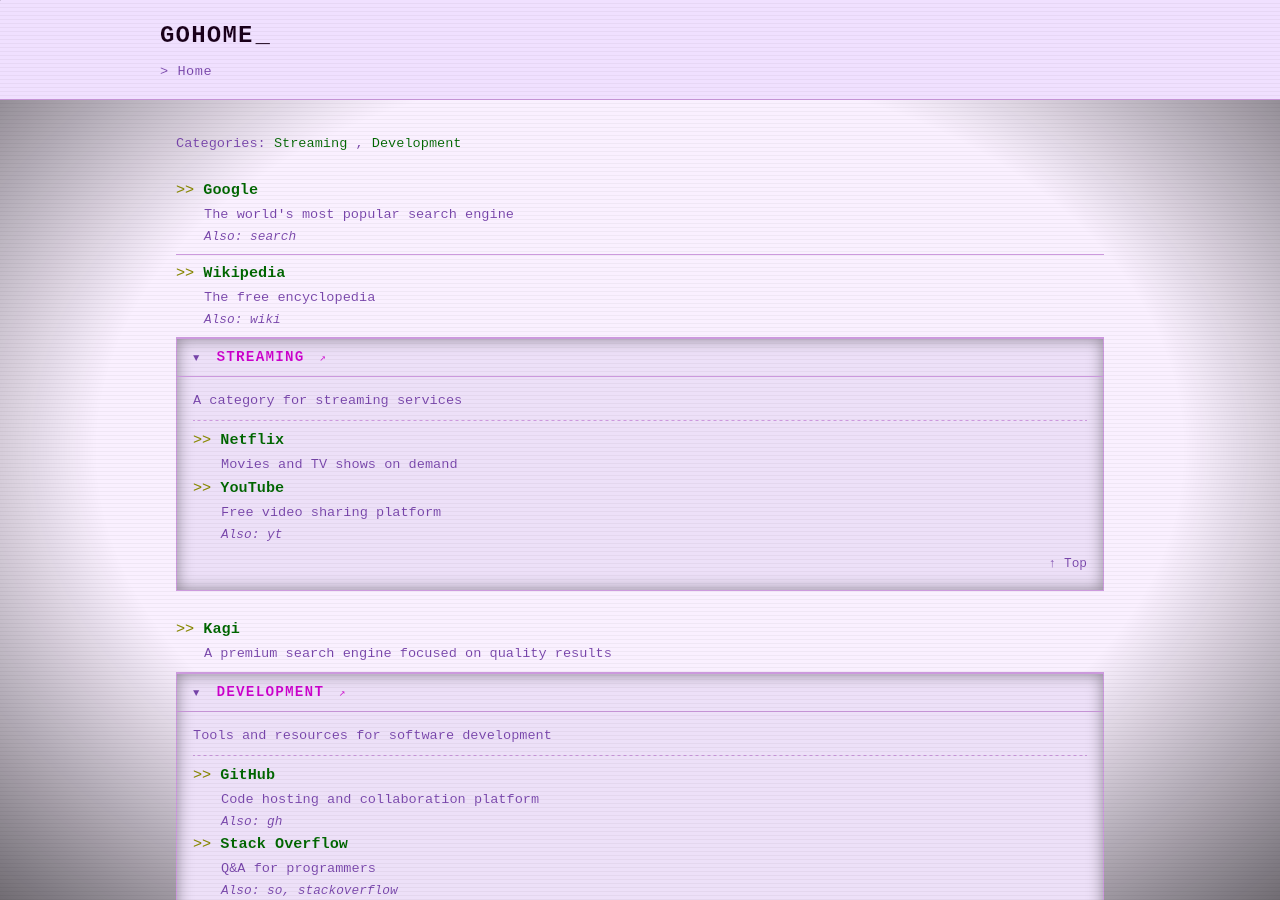
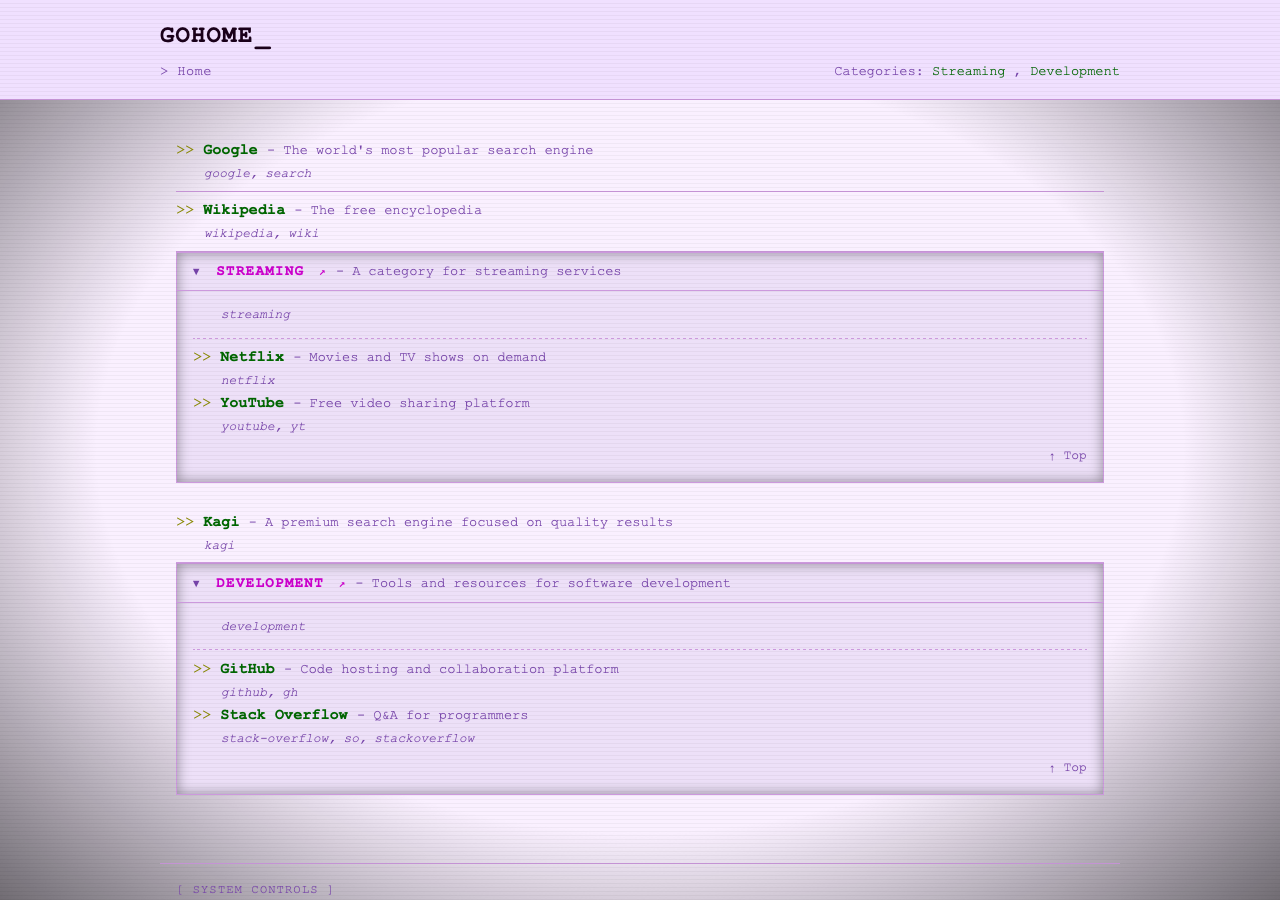
Update README alias docs and regenerate screenshots
- Update alias display descriptions to reflect inline slug labels
- Regenerate all 8 theme screenshots with current UI
- Fix screenshot script: use threaded server to avoid Webkit
  keep-alive blocking

diff --git a/scripts/generate_screenshots.py b/scripts/generate_screenshots.py
@@ -106,7 +106,7 @@ def start_server(config_dir: str, port: int) -> tuple[threading.Thread, BaseWSGI
     from gohome import create_app  # type: ignore[import-untyped]
 
     app = create_app(config_dir)
-    server: BaseWSGIServer = make_server("127.0.0.1", port, app)
+    server: BaseWSGIServer = make_server("127.0.0.1", port, app, threaded=True)
 
     thread = threading.Thread(target=server.serve_forever, daemon=True)
     thread.start()

diff --git a/README.md b/README.md
@@ -201,8 +201,8 @@ links together. The `description` and `aliases` fields are optional.
 
 Use `aliases` to create shorthand URLs for a link — for example, the
 sample config sets `search` as an alias for Google, so both
-`go/google` and `go/search` reach the same destination. Aliases are
-displayed in the web UI for discoverability.
+`go/google` and `go/search` reach the same destination. Each entry
+shows its slug and any alias slugs inline for discoverability.
 
 A minimal file with just one link looks like this:
 
@@ -454,7 +454,8 @@ redirect to the same URL. Each alias is normalized and registered as
 its own slug, so `go/search` and `go/google` can point to the same
 destination. Aliases are displayed beneath the entry in the web UI
 for discoverability. Alias slugs must be globally unique — they
-cannot collide with any other name or alias.
+cannot collide with any other name or alias. Each entry displays its
+primary slug and alias slugs inline (e.g., `google, search, gsearch`).
 
 ```yaml
 - name: Google
